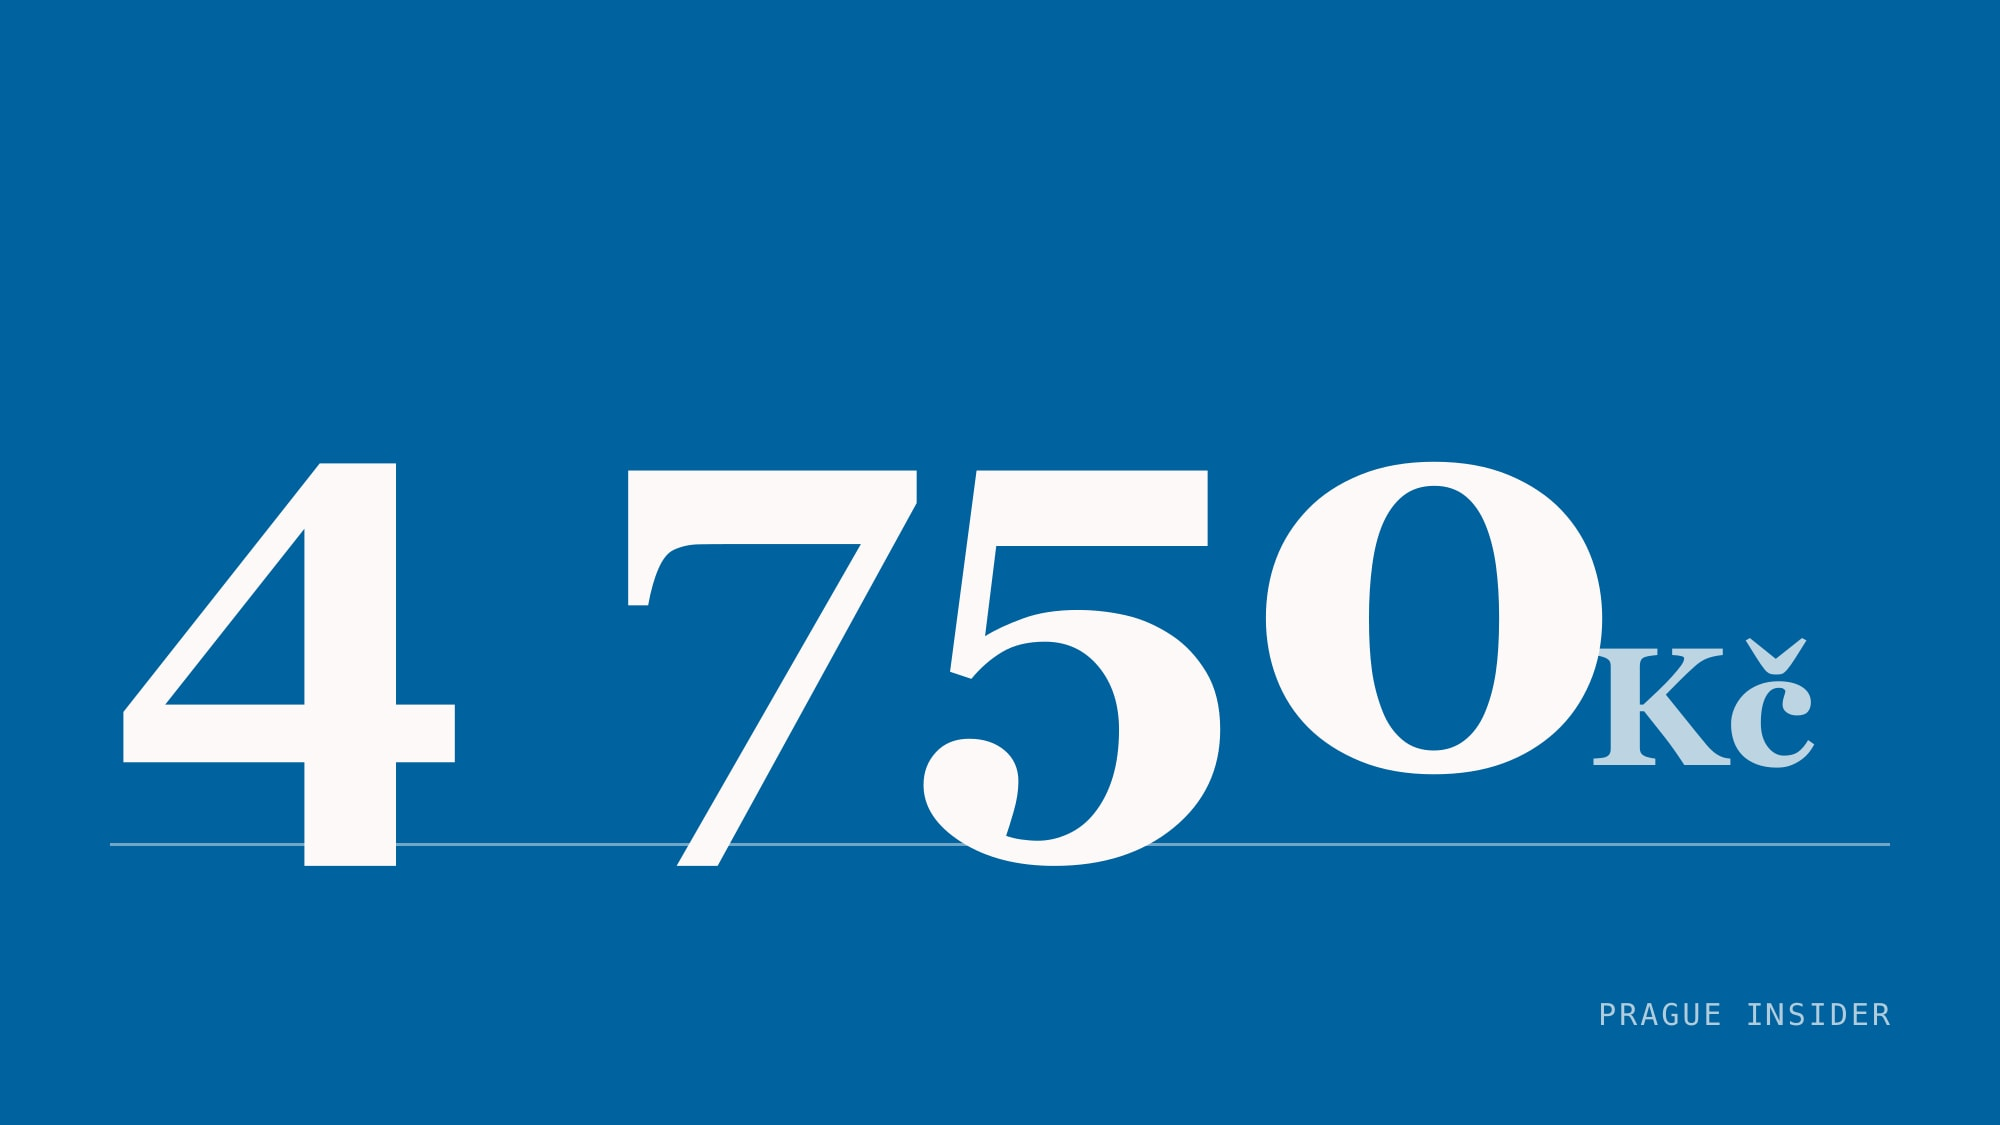
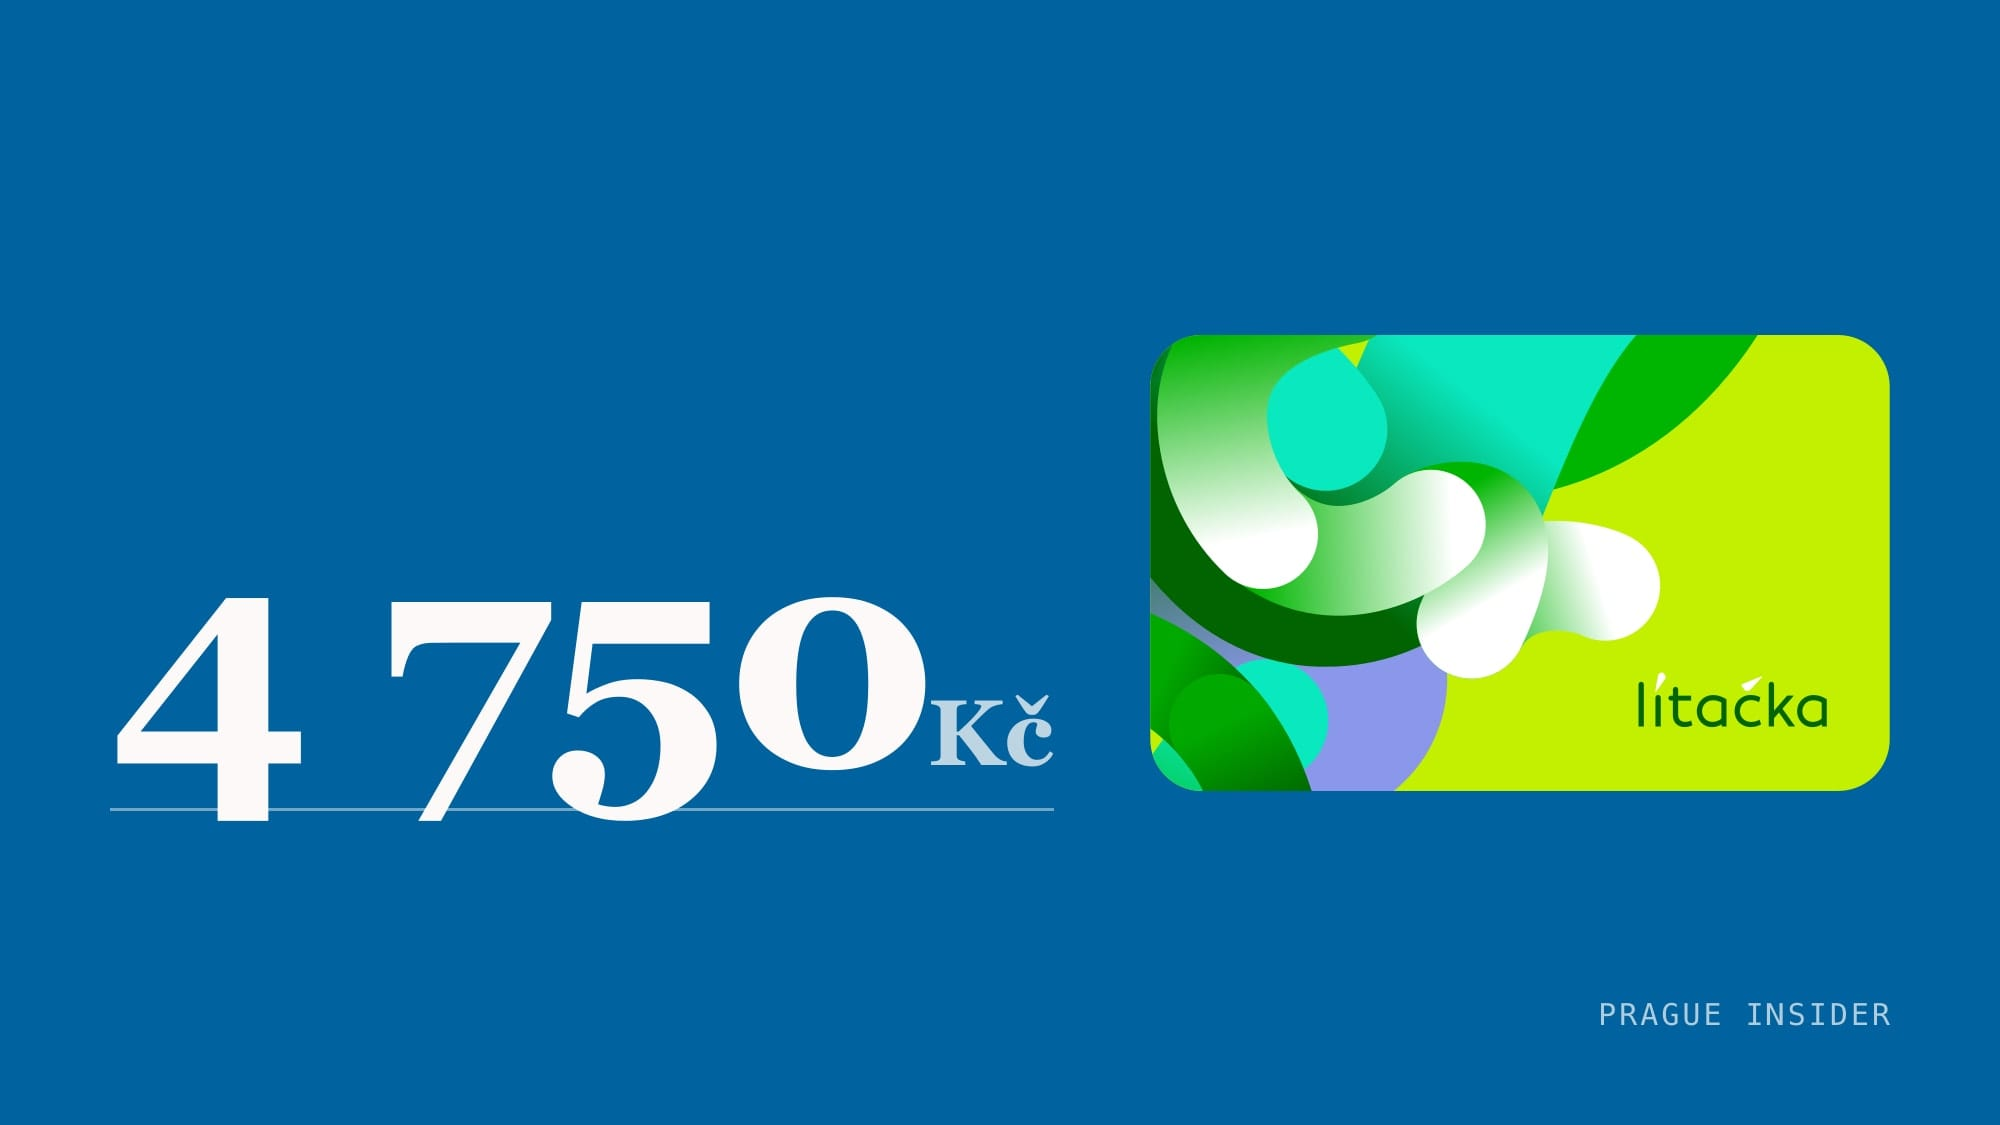
Set the Lítačka card beside the figure on the fare stories
The card is the object those articles are about — what an annual pass buys, what
the app runs on — so it belongs on the cover in a way a logo never would. On its
own it would just be brand artwork; beside the number it says what the story says.
Three articles get it: the 4 750 Kč pass, the 25 million for rebuilding the app,
and the 15-minute subsidised ride on the bike benefit.

make-figure.mjs takes --mark for this, rendering the vector at high density before
scaling because the card is the half of the plate a reader recognises. The figure
gets the width the card leaves, and the rule under it stops short of the artwork.

That half of the plate is not ours, so the rules that govern every other borrowed
picture apply: the credit names the owner — "Prague Insider Desk · PID Lítačka",
which stays neutral across both locales — and cover.source carries the page the
vector came from. The vector is committed in assets/ with its provenance, the way
a diagram spec is, so the plate can be redrawn.

Two things the gate caught while doing it.

Allowing a figure plate a source meant kind: figure fell through to the branch that
rejects one, so three correct articles were refused for carrying exactly what they
were supposed to carry. Fixed.

And the figure check turned down "4" for the bikeshare piece, because the article
writes "four times a day" and never the digit. The number on the plate is now the
15-minute ride the subsidy actually pays for, which the prose does write — a better
[…]

Changed region(s): [[0.062, 0.28, 0.961, 0.7778], [0.031, 0.6533, 0.062, 0.6844]]

diff --git a/CLAUDE.md b/CLAUDE.md
@@ -31,7 +31,11 @@ correctness bug, not a style choice.
   states a fact on its face, so the gate requires `cover.figure` to appear in the prose of both
   locales — compared on digits alone, because Czech writes 4 750 and English 4,750. Units are held
   to a neutral list (`Kč`, `%`, `°C`, `km`…): one image serves both languages, and "mld. Kč" is
-  wrong on the English article exactly as "bn" is wrong on the Czech one.
+  wrong on the English article exactly as "bn" is wrong on the Czech one. `--mark` sets borrowed
+  artwork beside the figure — the Lítačka card on a story about what a pass costs — and that half
+  of the plate is not ours: the credit names the owner and `cover.source` carries the page it came
+  from. Only where the artwork *is* the subject, never as the logo of whoever announced the news.
+  Vectors live in `assets/`, with their provenance in `assets/README.md`.
 - **A `kind: diagram` is the one picture we draw ourselves.** `scripts/make-diagram.mjs` plots a
   route over the same Esri basemap the article locator uses, from coordinates that must already be
   in `data/places.json` — so a diagram cannot be drawn through a place the desk has not resolved,

diff --git a/.claude/skills/photo-desk/SKILL.md b/.claude/skills/photo-desk/SKILL.md
@@ -53,6 +53,10 @@ node scripts/attach-photo.mjs --photo out.jpg --slug <slug> \
 - **Units are held to a neutral list** (`Kč`, `%`, `°C`, `km`, `m`…), because one image serves both
   languages. Where the natural unit is a word — *mld. Kč*, *bn* — restate the figure so it needs
   none (1 620 000 Kč, not 1,62 mil. Kč) or leave the unit off and let the caption carry it.
+- **`--mark` sets artwork beside the figure** — the Lítačka card on a story about what a pass
+  costs. That half of the plate is not ours, so the credit names the owner (`Prague Insider Desk ·
+  PID Lítačka`, which is language-neutral) and `--source` carries the page it came from. Only where
+  the artwork is the subject: the card a fare buys, not the logo of whoever announced the news.
 - **Pick the number the headline turns on**, not the largest one in the piece. The caption sits
   directly underneath and says what it counts, so the plate itself needs no words.
 

diff --git a/content/posts/2026-10-13-annual-coupon-4750-toll-inside-ring/index.cs.md b/content/posts/2026-10-13-annual-coupon-4750-toll-inside-ring/index.cs.md
@@ -11,10 +11,11 @@ aiGenerated: true
 featured: true
 cover:
   photo: cover.jpg
-  alt: "Tabule s číslem 4 750 Kč vysázeným velkou bílou patkovou číslicí na tmavě modrém podkladu dopravní rubriky, pod ním tenká linka."
+  alt: "Tabule s číslem 4 750 Kč vysázeným velkou bílou patkovou číslicí na tmavě modrém podkladu dopravní rubriky, vedle ní limetkově zelená karta Lítačka s logotypem."
   caption: "Cena ročního kupónu, se kterou chce vítěz voleb jít do koaličních jednání — spolu s parkovným a mýtem za vjezd do centra."
-  credit: "Prague Insider Desk"
+  credit: "Prague Insider Desk · PID Lítačka"
   kind: figure
+  source: "https://prod-pidlitacka-eshop-strapi.k8s-prod.oict.cz/uploads/litacka_card_6ce0691e6a.svg"
   figure: "4 750"
 sources:
   - title: "Mýto uvnitř okruhu, dražší parkování a roční kupon za 4750 korun. Vítěz voleb v Praze představil plány"

diff --git a/content/posts/2026-09-26-pid-litacka-second-generation-funding/index.en.md b/content/posts/2026-09-26-pid-litacka-second-generation-funding/index.en.md
@@ -9,6 +9,14 @@ tags: ["PID Lítačka", "OICT", "ROPID", "Jaromír Beránek", "bezbariérovost"]
 author: "Prague Insider Desk"
 aiGenerated: true
 featured: false
+cover:
+  photo: cover.jpg
+  alt: "A plate stating the figure 25 in large white serif digits on the transport desk's deep blue ground, with the lime-green Lítačka travel card and its wordmark set beside them."
+  caption: "Millions of crowns the city has committed to a second generation of the app, with another six from ROPID and IDSK."
+  credit: "Prague Insider Desk · PID Lítačka"
+  kind: figure
+  source: "https://prod-pidlitacka-eshop-strapi.k8s-prod.oict.cz/uploads/litacka_card_6ce0691e6a.svg"
+  figure: "25"
 sources:
   - title: "Z Lítačky má být superaplikace. Nové funkce podpoří Praha dalšími 25 miliony"
     url: "https://zdopravy.cz/z-litacky-ma-byt-superaplikace-nove-funkce-podpori-praha-dalsimi-25-miliony-300309"

diff --git a/content/posts/2026-10-13-annual-coupon-4750-toll-inside-ring/index.en.md b/content/posts/2026-10-13-annual-coupon-4750-toll-inside-ring/index.en.md
@@ -11,10 +11,11 @@ aiGenerated: true
 featured: true
 cover:
   photo: cover.jpg
-  alt: "A plate stating 4 750 Kč in large white serif figures on the transport desk's deep blue ground, a thin rule beneath them."
+  alt: "A plate stating 4 750 Kč in large white serif figures on the transport desk's deep blue ground, with the lime-green Lítačka travel card and its wordmark set beside them."
   caption: "The annual pass price the election winner wants to carry into coalition talks, alongside parking charges and a toll for driving into the centre."
-  credit: "Prague Insider Desk"
+  credit: "Prague Insider Desk · PID Lítačka"
   kind: figure
+  source: "https://prod-pidlitacka-eshop-strapi.k8s-prod.oict.cz/uploads/litacka_card_6ce0691e6a.svg"
   figure: "4 750"
 sources:
   - title: "Mýto uvnitř okruhu, dražší parkování a roční kupon za 4750 korun. Vítěz voleb v Praze představil plány"

diff --git a/content/posts/2026-09-26-pid-litacka-second-generation-funding/index.cs.md b/content/posts/2026-09-26-pid-litacka-second-generation-funding/index.cs.md
@@ -9,6 +9,14 @@ tags: ["PID Lítačka", "OICT", "ROPID", "Jaromír Beránek", "bezbariérovost"]
 author: "Prague Insider Desk"
 aiGenerated: true
 featured: false
+cover:
+  photo: cover.jpg
+  alt: "Tabule s číslem 25 vysázeným velkou bílou patkovou číslicí na tmavě modrém podkladu dopravní rubriky, vedle ní limetkově zelená karta Lítačka s logotypem."
+  caption: "Milionů korun, které město dalo na druhou generaci aplikace; dalších šest přidávají ROPID a IDSK."
+  credit: "Prague Insider Desk · PID Lítačka"
+  kind: figure
+  source: "https://prod-pidlitacka-eshop-strapi.k8s-prod.oict.cz/uploads/litacka_card_6ce0691e6a.svg"
+  figure: "25"
 sources:
   - title: "Z Lítačky má být superaplikace. Nové funkce podpoří Praha dalšími 25 miliony"
     url: "https://zdopravy.cz/z-litacky-ma-byt-superaplikace-nove-funkce-podpori-praha-dalsimi-25-miliony-300309"

diff --git a/content/posts/2026-09-08-bikesharing-pid-litacka-2026-tender/index.en.md b/content/posts/2026-09-08-bikesharing-pid-litacka-2026-tender/index.en.md
@@ -9,6 +9,14 @@ tags: ["bikesharing", "PID Lítačka", "Jaromír Beránek", "TSK", "mikromobilit
 author: "Prague Insider Desk"
 aiGenerated: true
 featured: false
+cover:
+  photo: cover.jpg
+  alt: "A plate stating 15 min in large white serif figures on the transport desk's deep blue ground, with the lime-green Lítačka travel card and its wordmark set beside them."
+  caption: "The length of a subsidised ride under the new 50-million-crown contract. From 2027 there are four a day instead of two."
+  credit: "Prague Insider Desk · PID Lítačka"
+  kind: figure
+  source: "https://prod-pidlitacka-eshop-strapi.k8s-prod.oict.cz/uploads/litacka_card_6ce0691e6a.svg"
+  figure: "15"
 sources:
   - title: "Praha upraví a rozšíří podporu bikesharingu v rámci aplikace PID Lítačka"
     url: "https://pid.cz/praha-upravi-a-rozsiri-podporu-bikesharingu-v-ramci-aplikace-pid-litacka"

diff --git a/content/posts/2026-09-08-bikesharing-pid-litacka-2026-tender/index.cs.md b/content/posts/2026-09-08-bikesharing-pid-litacka-2026-tender/index.cs.md
@@ -9,6 +9,14 @@ tags: ["bikesharing", "PID Lítačka", "Jaromír Beránek", "TSK", "mikromobilit
 author: "Prague Insider Desk"
 aiGenerated: true
 featured: false
+cover:
+  photo: cover.jpg
+  alt: "Tabule s údajem 15 min vysázeným velkou bílou patkovou číslicí na tmavě modrém podkladu dopravní rubriky, vedle ní limetkově zelená karta Lítačka s logotypem."
+  caption: "Délka dotované jízdy podle nové zakázky za 50 milionů. Od roku 2027 jich bude denně čtyři místo dvou."
+  credit: "Prague Insider Desk · PID Lítačka"
+  kind: figure
+  source: "https://prod-pidlitacka-eshop-strapi.k8s-prod.oict.cz/uploads/litacka_card_6ce0691e6a.svg"
+  figure: "15"
 sources:
   - title: "Praha upraví a rozšíří podporu bikesharingu v rámci aplikace PID Lítačka"
     url: "https://pid.cz/praha-upravi-a-rozsiri-podporu-bikesharingu-v-ramci-aplikace-pid-litacka"

diff --git a/assets/README.md b/assets/README.md
@@ -1,0 +1,9 @@
+# Artwork used in generated covers
+
+Vectors that `scripts/make-figure.mjs --mark` sets beside a figure. Each one is somebody else's,
+so an article using it credits the owner and carries the page it came from in `cover.source`.
+
+- `litacka-card.svg` — the PID Lítačka travel card, from the PID Lítačka e-shop:
+  `https://prod-pidlitacka-eshop-strapi.k8s-prod.oict.cz/uploads/litacka_card_6ce0691e6a.svg`
+  Used only where the card is the subject — what a pass costs, what the app does — never as
+  decoration on an unrelated transport story.
